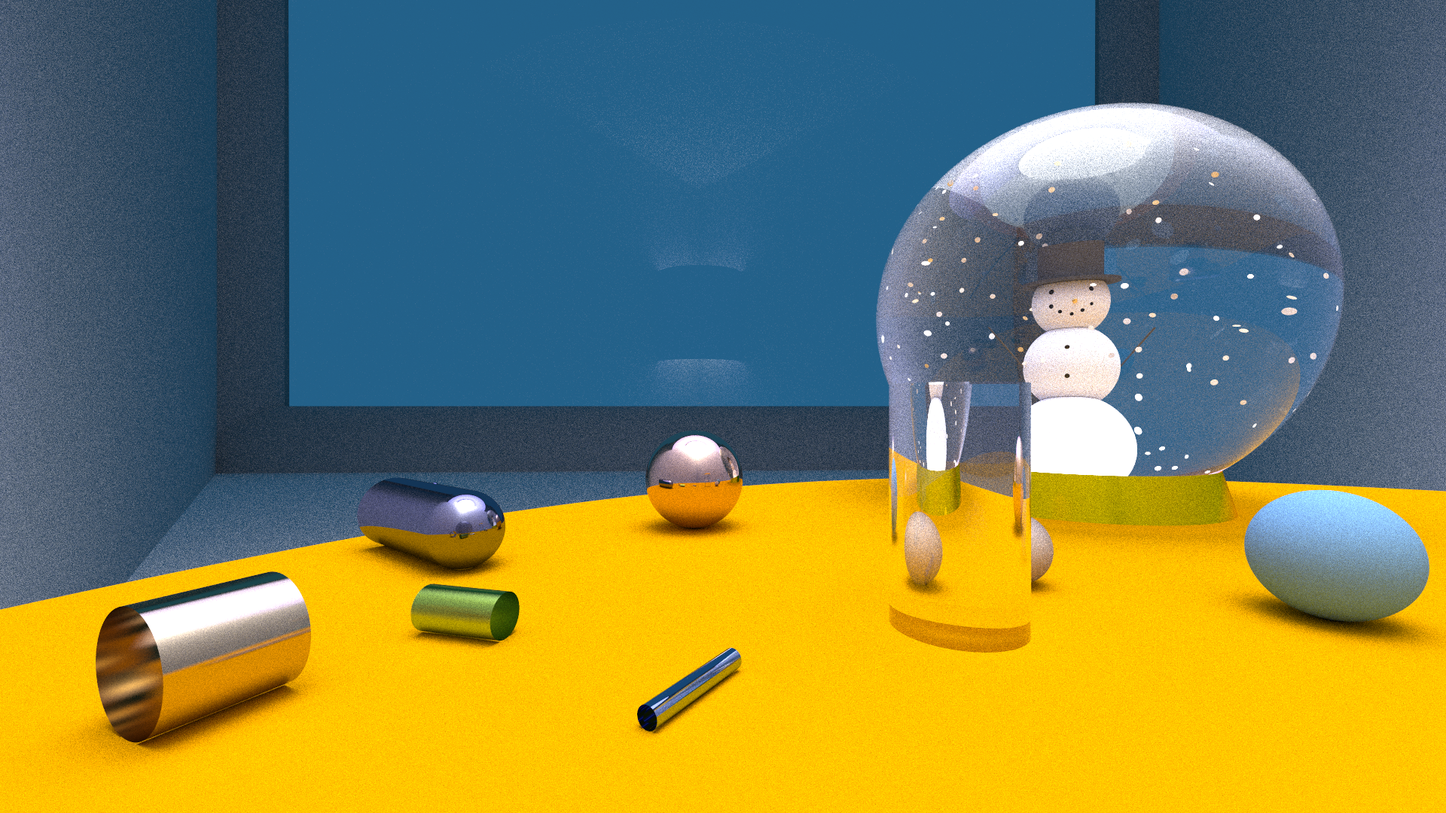
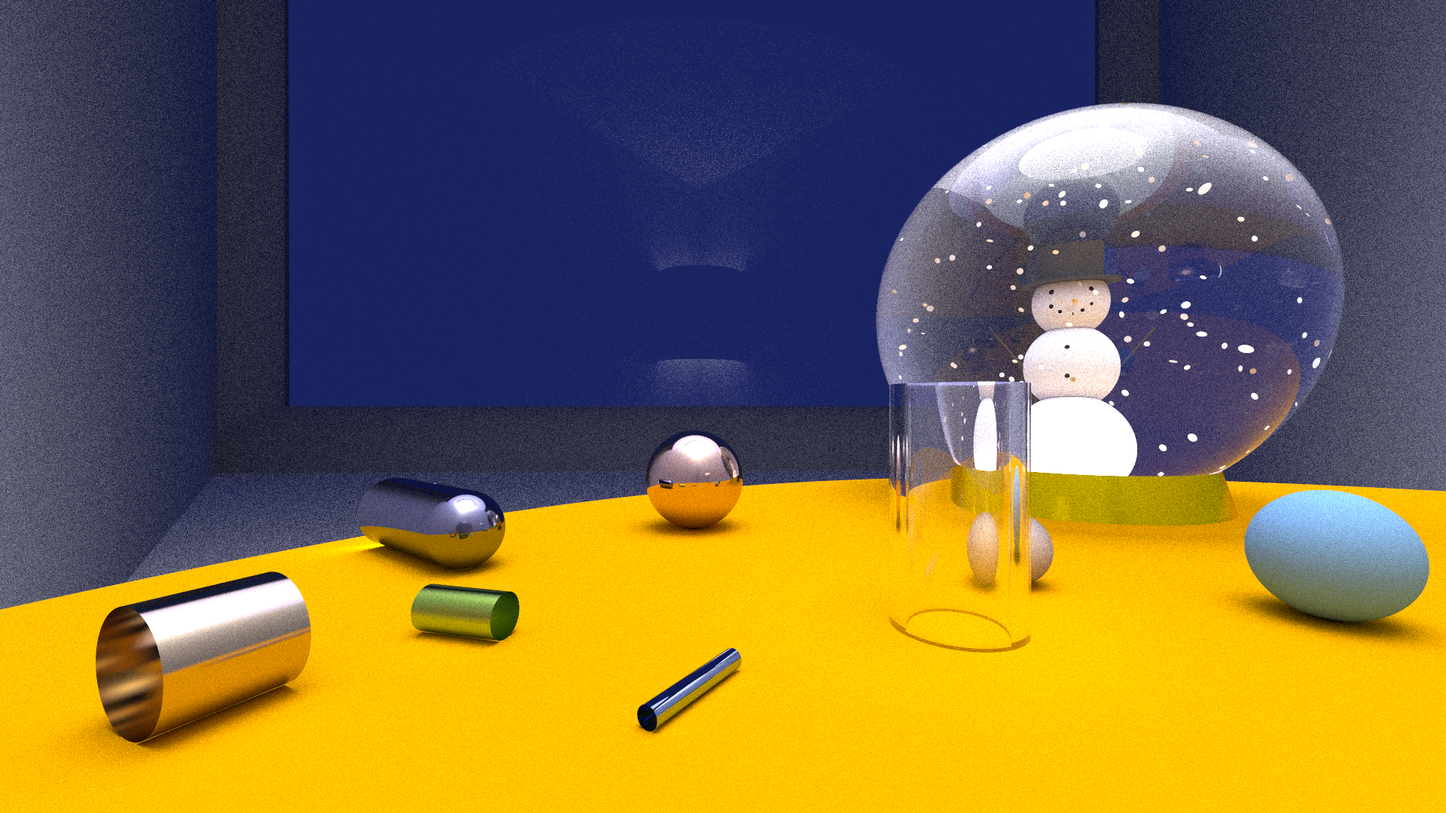
Prepped ready for snowglobe render

diff --git a/src/main/java/Main.java b/src/main/java/Main.java
@@ -17,8 +17,10 @@ import java.io.File;
 public class Main {
     private static final int WIDTH = 1920;
     private static final int HEIGHT = 1080;
-    private static final int SAMPLES_PER_PIXEL = 256;
-    private static final int BOUNCES_PER_RAY = 64;
+    private static final int SAMPLES_PER_PIXEL = 16384;
+    private static final int BOUNCES_PER_RAY = 512;
+    //private static final int SAMPLES_PER_PIXEL = 256;
+    //private static final int BOUNCES_PER_RAY = 64;
 
     //private static final Vec3 camPos = new Vec3(13.0f, 2.0f, 3.0f);
     //private static final Vec3 camFor = VectorOperations.normalise(new Vec3(-13.0f, -2.0f, -3.0f));
@@ -51,7 +53,7 @@ public class Main {
 
         //Get the scene data
         //int numObjects = 490;
-        int numObjects = 244;
+        int numObjects = 245;
         ByteBuffer buffer = MemoryUtil.memAlloc(numObjects * 80);  //int and floats are 4 bytes
 
         //createTestScene(buffer);
@@ -79,7 +81,7 @@ public class Main {
         GL43.glUniform3f(GL43.glGetUniformLocation(program, "u_CamUp"), camUp.x(), camUp.y(), camUp.z());
         GL43.glUniform1f(GL43.glGetUniformLocation(program, "u_Fov"), fov);
         //GL43.glUniform3f(GL43.glGetUniformLocation(program, "u_backgroundCol"), 0, 0, 0);
-        GL43.glUniform3f(GL43.glGetUniformLocation(program, "u_backgroundCol"), 0.02f, 0.15f, 0.3f);
+        GL43.glUniform3f(GL43.glGetUniformLocation(program, "u_backgroundCol"), 0.01f, 0.02f, 0.15f);
         //GL43.glUniform3f(GL43.glGetUniformLocation(program, "u_backgroundCol"), 1, 1, 1);
 
         System.out.println("Rendering " + WIDTH + "x" + HEIGHT + " image at " + SAMPLES_PER_PIXEL + " samples per pixel on GPU...");
@@ -556,6 +558,11 @@ public class Main {
                 0.13f, 1.955f, -0.14f, 0,
                 0, 1, 0, 0,
                 0.015f, 0.1f, 0, 1);
+        addObject(buf, 2, 2, 1/2f, 0,
+                1f, 1f, 1f, 0,
+                0.13f, 1.965f, -0.14f, 0,
+                0, 1, 0, 0,
+                0.011f, 0.08f, 0, 1);
 
         addObject(buf, 0, 0, 0, 0,
                 0.2f, 0.4f, 0.6f, 0,
@@ -584,11 +591,11 @@ public class Main {
                 0.183537f, 1.962f, -0.271186f, 0,
                 0, 0, 0, 0,
                 0.012f, 0, 0, 0);
-        addObject(buf, 11, 3, 0, 0,
-                10, 10, 10, 0,
+        addObject(buf, 2, 3, 0, 0,
+                15, 15, 15, 0,
                 0.216528f, 1.962f, -0.30889f, 0,
                 0.35f, 0, -0.4f, 1,
-                0.012f, 0.05f, 0, 0.1993408f);
+                0.01f, 0.005f, 0, 0.1993408f);
         addObject(buf, 0, 2, 0.2f, 0,
                 0.3f, 0.3f, 0.4f, 0,
                 0.214617f, 1.970485f, -0.29382f, 0,
